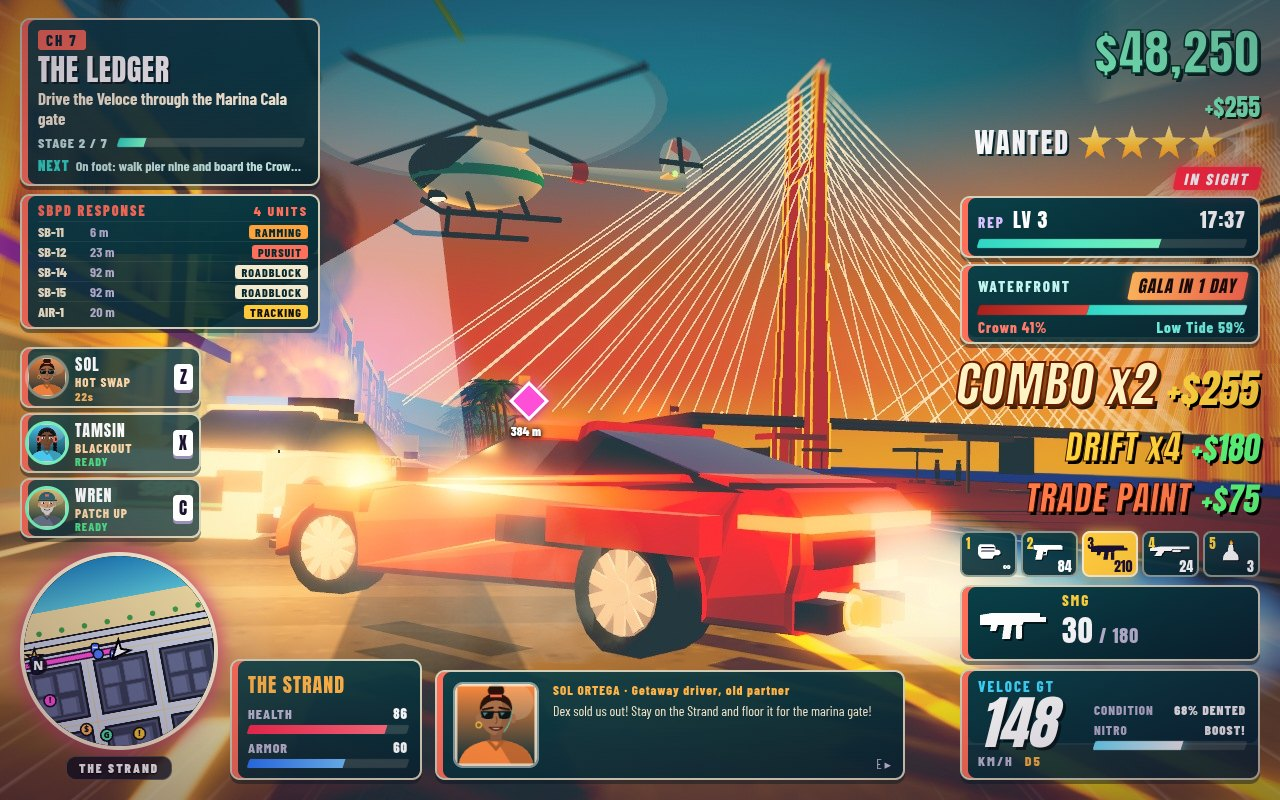
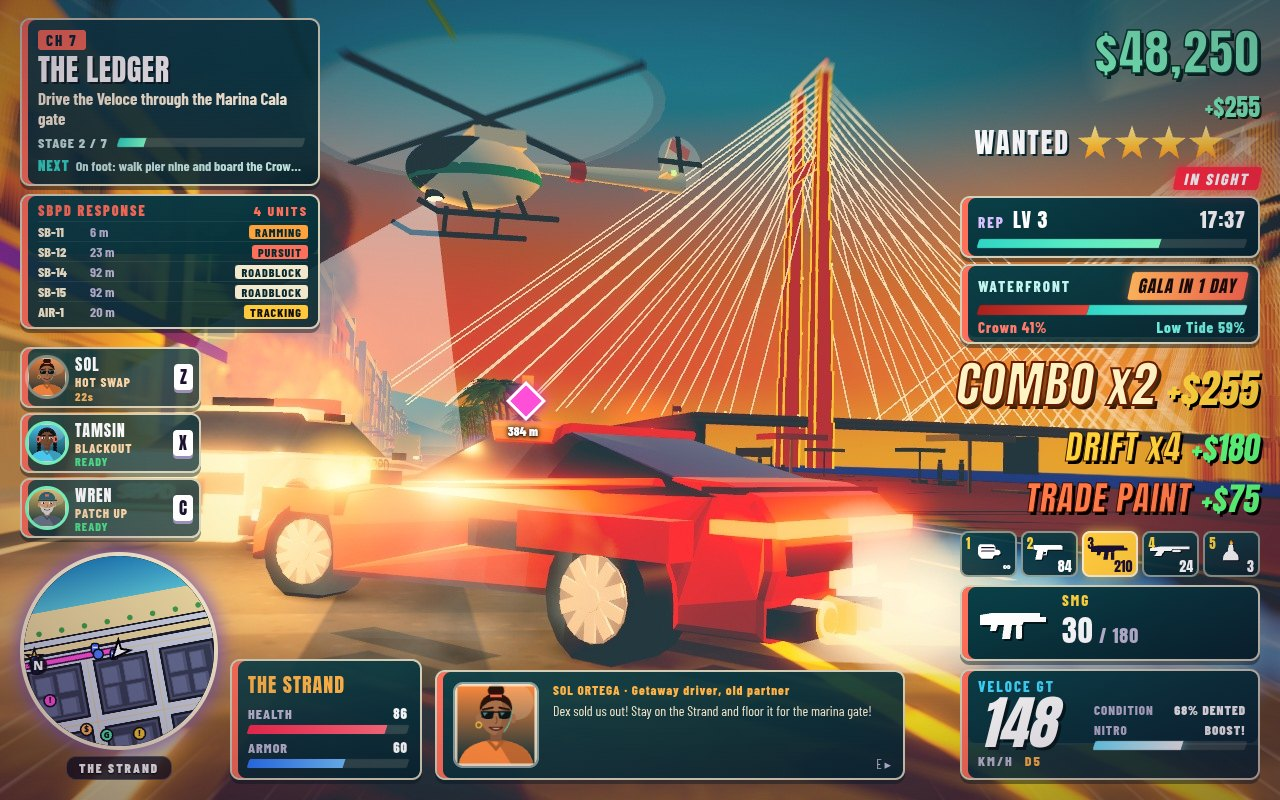
Market shot exposure matched to the sheet; cover, boat and market re-shot with contact shadows and the floodlit Causeway

diff --git a/game/src/shots/screenshotScenes.js b/game/src/shots/screenshotScenes.js
@@ -161,7 +161,7 @@ function marketFight(api) {
   { const c = G.cars.find((k) => k.kind === 'cop' && k.ai === 'PURSUIT'); if (c) for (let k = 0; k < 24; k++) for (const sg of [-1, 1]) skidMark(c.x - Math.sin(c.heading) * (1.4 + k * 0.4) + Math.cos(c.heading) * sg * 0.85 + k * k * 0.004, c.z - Math.cos(c.heading) * (1.4 + k * 0.4) - Math.sin(c.heading) * sg * 0.85, c.heading + k * 0.01); }
   setStars(3); G.wanted.heat = 3.3; updateSirens(0.1); updateLineOfSight(1);
   say({ who: 'wren', text: 'Told you they cook on bottled gas. Now SBPD heard it too: drop the last Kings and get out of Old Town!' }); typed();
-  G.shotCam = { pos: S.cam, look: S.look, fov: S.fov, roll: -0.02 }; G.exposure = 1.12; if (G.post) Object.assign(G.post.params, { bloom: 0.36, threshold: 1.2, vignette: 0.3 });
+  G.shotCam = { pos: S.cam, look: S.look, fov: S.fov, roll: -0.02 }; G.exposure = 1.22; if (G.post) Object.assign(G.post.params, { bloom: 0.32, threshold: 1.3, vignette: 0.22 });
   { const [x, , z] = S.cam; thinPalms(x, z, 30, 95, 4); }
   // the low sun is behind the towers: a broad warm bounce from the sunlit lagoon and road lifts the facades and stalls out of silhouette
   { const b = new THREE.DirectionalLight(0xffd2a8, 0.85); b.position.set(S.cam[0] - 40, 30, S.cam[2] + 30); b.target.position.set(S.look[0], 0, S.look[2]); G.scene.add(b, b.target); }
